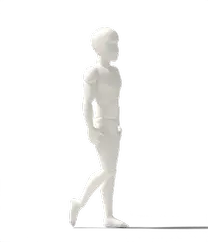
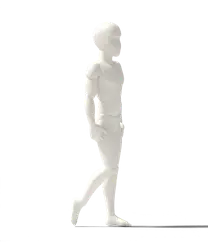
From review of v159: '.textlike.hidden' rule so the warm-up link hides for walking, stairs and auto (.textlike's display beat .hidden). Design team: all 11 clips cropped to one shared scale around the union of the figure across frames (6% top/bottom, centred per move), glute and hamstring stretches 

diff --git a/index.html b/index.html
@@ -141,6 +141,7 @@
   .gloss { margin-top:14px; } .gloss dt { font-weight:600; margin-top:8px; color:var(--ink); } .gloss dd { margin:2px 0 0; }
   .btnlike { display:block; text-decoration:none; text-align:center; font-weight:600; border-radius:var(--r-md); padding:14px; margin-top:14px; background:var(--accent); color:#fff; cursor:pointer; }
   .textlike { display:block; width:100%; background:none; border:0; color:var(--accent); font-weight:600; text-align:center; padding:12px; margin:4px 0 0; cursor:pointer; }   /* 글자만 있는 버튼 (디자인 팀 10/28) */
+  .textlike.hidden { display:none; }                                       /* 위 .textlike의 display가 .hidden을 이기지 않게 (검수팀 10/29: 걷기에서도 몸 풀기 버튼이 보였음) */
   #pocketNote { background:none; border:1px solid var(--o); color:var(--o); } #pocketNote a { color:inherit; }
   .ghostlike { background:transparent; color:var(--accent); border:1px solid var(--accent); }
   .bar2 { height:10px; border-radius:6px; background:var(--line); overflow:hidden; margin-top:12px; } .bar2 i { display:block; height:100%; width:0; background:var(--accent); }

diff --git a/sw.js b/sw.js
@@ -1,5 +1,5 @@
 // 오프라인에서도 열리도록 앱 파일 저장 (파일을 고치면 VERSION을 올리기)
-const VERSION = 'v159';
+const VERSION = 'v160';
 const FILES = ['./', 'index.html', 'app.js', 'gait.js', 'video.js', 'manifest.webmanifest', 'icon.svg', 'icon-192.png', 'icon-512.png', 'icon-maskable-512.png', 'privacy.html', 'location-terms.html',
   ...['side', 'front', 'back'].flatMap(v => ['pelvis', 'femur', 'shank', 'foot'].map(p => `assets/bones/${v}-${p}.webp`)),
   ...Array.from({ length: 50 }, (_, i) => `assets/muscle/m${String(i).padStart(2, '0')}.webp`)];   // 걸음 수업 근육 그림 50장(약 640KB)도 오프라인에서   // 걸음걸이 탭 뼈 그림 12장(약 39KB)도 오프라인에서 보이게

diff --git a/app.js b/app.js
@@ -849,7 +849,7 @@ function openFeedback() {
 $('fbBtn').addEventListener('click', openFeedback);
 
 // ── 처음 시작할 때 동의 ──
-const APP_VERSION = 'v159';
+const APP_VERSION = 'v160';
 let consent = store.get('consent', null);
 function showConsent() {
   document.body.classList.add('needConsent');
